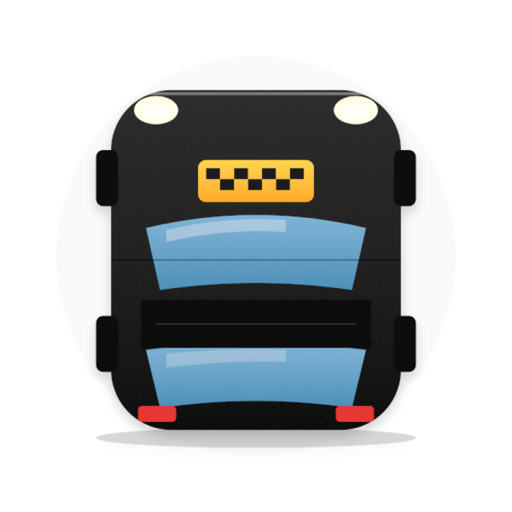
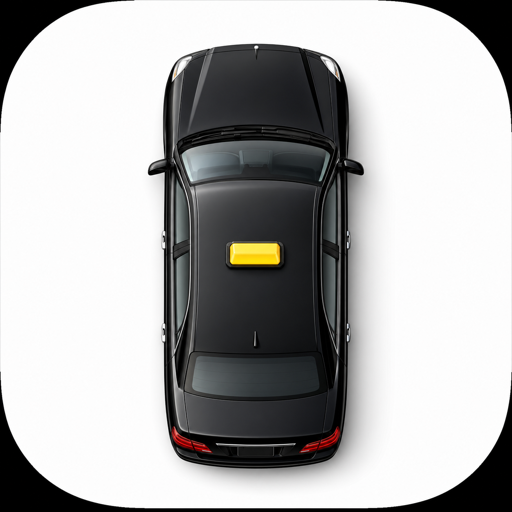
feat: アイコンをrun-ai-images skillで生成し直し(リアル黒タクシー)
- run-ai-images skill (codex exec + image_gen) で4枚並列生成
- バランス良い#2を採用 (icon-gen-02.png)
- 黒タクシー上面図、黄色TAXIランプ、白背景、iOS角丸枠
- 各サイズに sips でリサイズ (512/192/180/32)
- icon-gen-*.png は .gitignore (生成元4枚)
- sw.js: cache v25

diff --git a/sw.js b/sw.js
@@ -1,4 +1,4 @@
-const CACHE_NAME = 'taxi-daily-v24';
+const CACHE_NAME = 'taxi-daily-v25';
 const STATIC_FILES = [
   './',
   './index.html',
